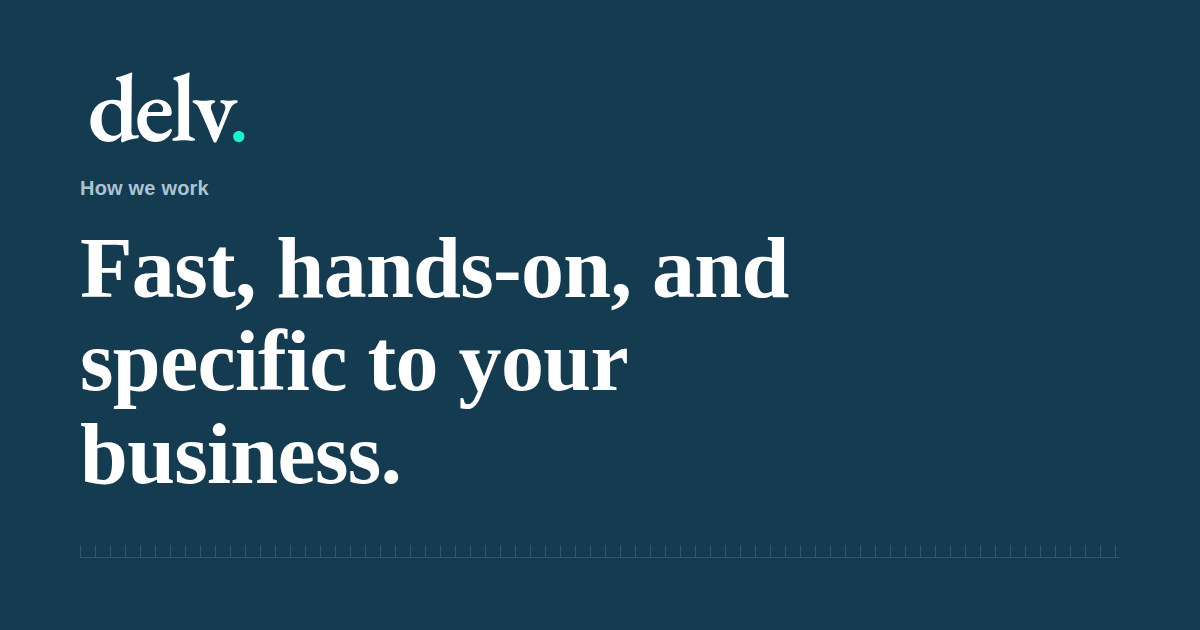
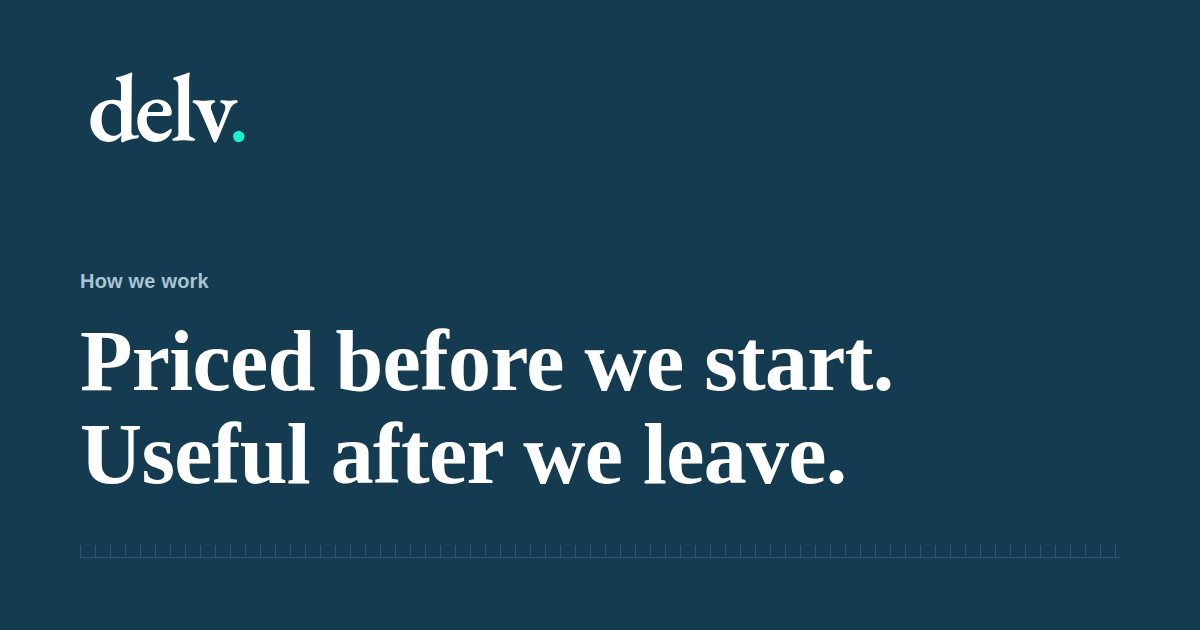
Cut the consultancy boilerplate out of the copy
A second read, for voice rather than errors. Measured first: 31 of 209
sentences opened with "We", and four stock phrases were doing work that
concrete ones could do better. Seven changes, all to the weak spots. The
copy that was already good is untouched.

- "Fast, hands-on, and specific to your business." was the weakest headline on
  the site: three adjectives, no content, and every consultancy claims all
  three. It is now "Priced before we start. Useful after we leave.", which is
  what the page actually promises and what nobody else says.
- Its sub carried "extension of your team", "from the sidelines" and
  "Healthcare rarely follows a straight line", all three of which appeared
  again elsewhere on the site. Rewritten around what the reader gets.
- "Every product has a context" was throat-clearing in front of the real
  sentence in the Discover step.
- "We are in this for long relationships" sat in front of a much better line
  about the work having to keep earning after the invoice. The better line now
  leads.
- The second "extension of your team", in the Q&A about speaking to customers,
  answered an operational question in the abstract. It now says what actually
  happens.
- "We roll up our sleeves" and "We do not shout from the sidelines" stacked two
  clichés in front of the one good line in that item. Now "We get into the
  data, not just the strategy".
- "We are comfortable with ambiguity" is appraisal-form language. Now "We do
[…]

Changed region(s): [[0.0617, 0.5127, 0.74, 0.7841], [0.0617, 0.3619, 0.6783, 0.4825], [0.0617, 0.2714, 0.185, 0.3317]]

diff --git a/src/data/how-we-work.ts b/src/data/how-we-work.ts
@@ -8,8 +8,8 @@ export const meta: PageMeta = {
 };
 
 export const hero: Hero = {
-  heading: 'Fast, hands-on, and specific to your business.',
-  sub: 'We work as an extension of your team rather than from the sidelines. Healthcare rarely follows a straight line, so we plan for that instead of pretending otherwise.',
+  heading: 'Priced before we start. Useful after we leave.',
+  sub: 'We work inside your team rather than presenting to it. You see the deliverables and the price before you commit to anything, and what we hand over has to keep working once we have gone.',
 };
 
 export const engagement = {
@@ -18,7 +18,7 @@ export const engagement = {
     {
       heading: 'Discover',
       when: 'Week one',
-      body: 'Every product has a context. We spend the first conversations understanding the problem you are solving, how you are solving it, and what the market is currently demanding of you. We listen before we propose.',
+      body: 'We spend the first conversations on the problem you are solving, how you are solving it, and what your market is currently demanding of you. No proposal until we understand all three.',
     },
     {
       heading: 'Brief',
@@ -62,7 +62,7 @@ export const offers = {
 
 export const tests = {
   heading: 'Six tests for anything we hand over',
-  lede: 'We are in this for long relationships, which means the work has to keep earning after the invoice. Every deliverable has to pass the same six tests before it leaves us.',
+  lede: 'Work that stops being useful the month after we invoice it was not worth buying. Every deliverable passes the same six tests before it leaves us.',
   items: [
     '<strong>Impactful</strong>: it changes a decision someone is about to make',
     '<strong>Relevant</strong>: it speaks to your market, not to consultancy in general',
@@ -84,7 +84,7 @@ export const qa = {
     {
       question: 'Can we trust you to speak to our customers directly?',
       answer:
-        'Yes. We have worked with organisations around the world and can be clear about our purpose, our limits and our respect for a client&rsquo;s own processes. We turn up as an extension of your team.',
+        'Yes, and we have done it with organisations around the world. We are explicit about who we are, what we are asking and why, and we work to your rules on how your customers are approached. We turn up as part of your team, not as a third party running research on them.',
     },
     {
       question:

diff --git a/src/data/who-we-are.ts b/src/data/who-we-are.ts
@@ -48,16 +48,16 @@ export const different = {
       body: 'We have carried the number into the meeting and had it questioned. That is a different experience from advising on it.',
     },
     {
-      heading: 'We roll up our sleeves',
-      body: 'We do not shout from the sidelines. We get into the data, sit with your team, and hand back things people can use on Monday.',
+      heading: 'We get into the data, not just the strategy',
+      body: 'We do not hand over a set of recommendations and leave. We sit with your analysts, work in the actual numbers, and give back things your team can use on Monday.',
     },
     {
       heading: 'We know how health systems buy',
       body: 'Evidence that convinces a clinician does not always convince a commissioner. What clears an NHS business case is not what clears a German sickness fund or a US integrated delivery network. We build for the system you are selling into, and we know where the approval actually sits.',
     },
     {
-      heading: 'We are comfortable with ambiguity',
-      body: 'Healthcare rarely follows a straight path. We are used to incomplete data, shifting stakeholders and a roadmap that moved last week.',
+      heading: 'We do not need the data to be tidy',
+      body: 'Incomplete data, a stakeholder who leaves mid-project, a roadmap that moved last week. That is the normal case in healthcare, not the exception, and it is what we plan for.',
     },
   ],
 };
